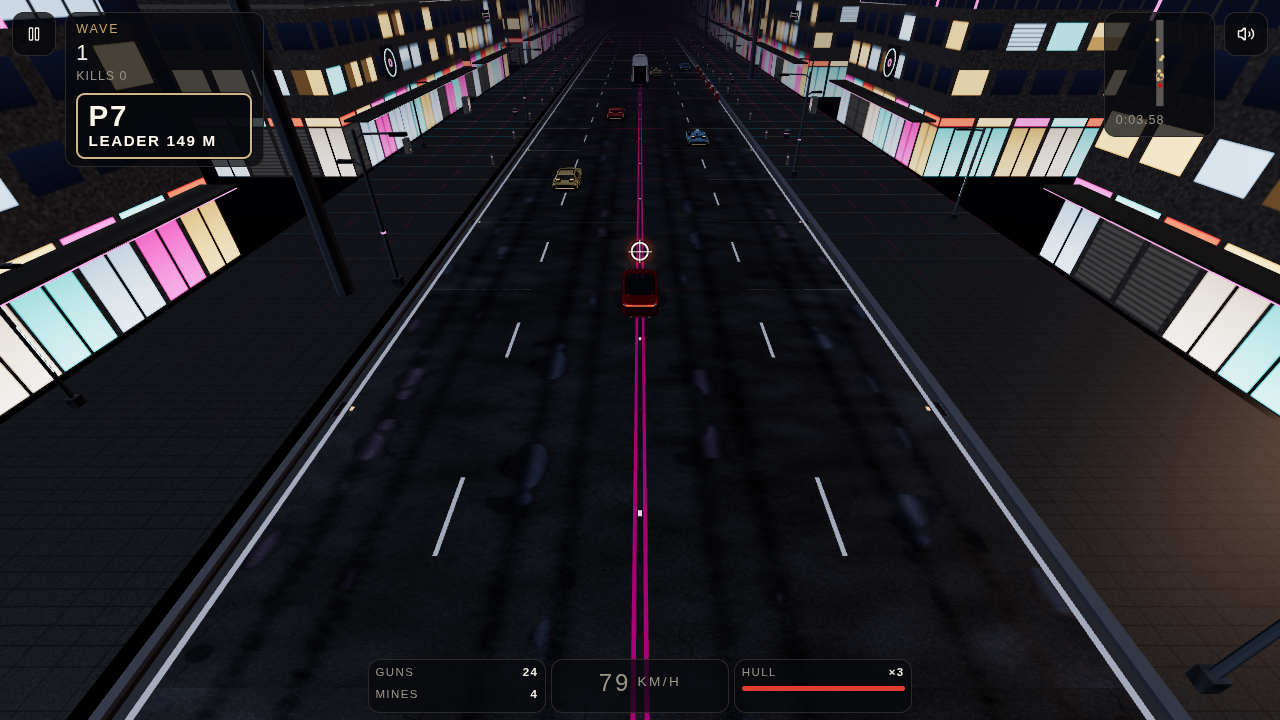
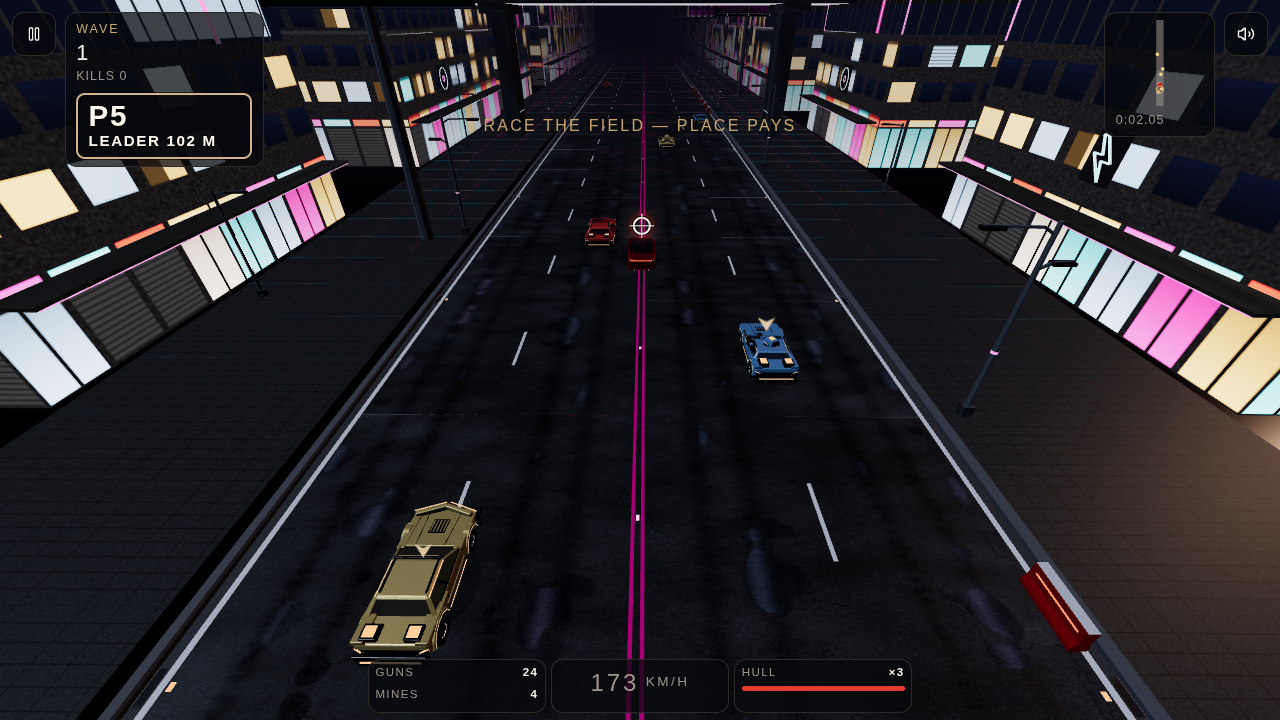
Fix Night City smoke: atlas, phone draws, HUD, finish and restart.
The packaged HTML loads the inlined road atlas, so the single-file
page keeps its asphalt. Phone play collapses enemy materials and
hides distant city dressing, and the race readout fits a 390-wide
screen. Restart clears the run and the HUD. Smoke now covers a
Night City finish and a Classic Night wreck.

diff --git a/src/game/world.ts b/src/game/world.ts
@@ -560,6 +560,119 @@ export function mergeStatic(root: THREE.Object3D) {
   }
 }
 
+/** Phone enemy LOD: one mesh per wheel material, parented on the root. The wheel_* pivots stay so the rig still finds four wheels. */
+function foldWheels(root: THREE.Object3D) {
+  root.updateMatrixWorld(true);
+  const inv = new THREE.Matrix4().copy(root.matrixWorld).invert();
+  const groups = new Map<THREE.Material, THREE.BufferGeometry[]>();
+  const victims: THREE.Mesh[] = [];
+  const underWheel = (o: THREE.Object3D) => {
+    for (let p: THREE.Object3D | null = o.parent; p && p !== root; p = p.parent) if (/^wheel_/.test(p.name)) return true;
+    return false;
+  };
+  root.traverse((o) => {
+    const m = o as THREE.Mesh;
+    if (!m.isMesh || (m as unknown as THREE.SkinnedMesh).isSkinnedMesh || !underWheel(m) || Array.isArray(m.material)) return;
+    const g0 = m.geometry.index ? m.geometry.toNonIndexed() : m.geometry.clone();
+    const g = new THREE.BufferGeometry();
+    const pos = g0.getAttribute("position");
+    const nrm = g0.getAttribute("normal");
+    if (!pos || !nrm) return;
+    g.setAttribute("position", pos);
+    g.setAttribute("normal", nrm);
+    if (g0.getAttribute("uv")) g.setAttribute("uv", g0.getAttribute("uv"));
+    g.applyMatrix4(new THREE.Matrix4().multiplyMatrices(inv, m.matrixWorld));
+    const list = groups.get(m.material as THREE.Material) ?? [];
+    list.push(g);
+    groups.set(m.material as THREE.Material, list);
+    victims.push(m);
+  });
+  for (const v of victims) v.parent?.remove(v);
+  for (const [mat, list] of groups) {
+    const merged = mergeGeometries(list, false);
+    if (!merged) continue;
+    const mesh = new THREE.Mesh(merged, mat);
+    mesh.name = "merged_wheel";
+    mesh.castShadow = false;
+    root.add(mesh);
+  }
+}
+
+function ancestorNamed(o: THREE.Object3D, root: THREE.Object3D, re: RegExp) {
+  for (let p: THREE.Object3D | null = o.parent; p && p !== root; p = p.parent) if (re.test(p.name)) return p;
+  return null;
+}
+
+/**
+ * Phone enemy LOD. The phone GLBs are already the low mesh, but each wheel is four
+ * materials and the body is five, so a full field is a draw each. Collapse trim into
+ * the body paint, wheels into one tire mesh, and each turret into one mesh. Glass stays.
+ * The hero car does not come through here.
+ */
+function phoneEnemyLod(root: THREE.Object3D) {
+  const named = new Map<string, THREE.Material>();
+  root.traverse((o) => {
+    const m = o as THREE.Mesh;
+    if (!m.isMesh || Array.isArray(m.material)) return;
+    const name = m.material.name;
+    if (name && !named.has(name)) named.set(name, m.material);
+  });
+  const body = named.get("body");
+  const tire = named.get("tire") ?? body;
+  if (body) {
+    root.traverse((o) => {
+      const m = o as THREE.Mesh;
+      if (!m.isMesh || Array.isArray(m.material)) return;
+      if (ancestorNamed(m, root, /rotor_/)) return;
+      if (ancestorNamed(m, root, /wheel_/)) {
+        if (tire) m.material = tire;
+        return;
+      }
+      const matName = m.material.name;
+      if (matName === "lamp" || matName === "trim" || matName === "rim" || matName === "taillight") m.material = body;
+    });
+  }
+  mergeStatic(root);
+  foldWheels(root);
+  const mounts: THREE.Object3D[] = [];
+  root.traverse((o) => {
+    if (/^turret_/.test(o.name)) mounts.push(o);
+  });
+  for (const mount of mounts) {
+    mount.updateMatrixWorld(true);
+    const inv = new THREE.Matrix4().copy(mount.matrixWorld).invert();
+    const groups = new Map<THREE.Material, THREE.BufferGeometry[]>();
+    const victims: THREE.Mesh[] = [];
+    mount.traverse((o) => {
+      const m = o as THREE.Mesh;
+      if (!m.isMesh || m === mount || Array.isArray(m.material)) return;
+      const g0 = m.geometry.index ? m.geometry.toNonIndexed() : m.geometry.clone();
+      const g = new THREE.BufferGeometry();
+      const pos = g0.getAttribute("position");
+      const nrm = g0.getAttribute("normal");
+      if (!pos || !nrm) return;
+      g.setAttribute("position", pos);
+      g.setAttribute("normal", nrm);
+      if (g0.getAttribute("uv")) g.setAttribute("uv", g0.getAttribute("uv"));
+      g.applyMatrix4(new THREE.Matrix4().multiplyMatrices(inv, m.matrixWorld));
+      const list = groups.get(m.material as THREE.Material) ?? [];
+      list.push(g);
+      groups.set(m.material as THREE.Material, list);
+      victims.push(m);
+    });
+    if (victims.length < 2) continue;
+    for (const v of victims) v.parent?.remove(v);
+    for (const [mat, list] of groups) {
+      const merged = mergeGeometries(list, false);
+      if (!merged) continue;
+      const mesh = new THREE.Mesh(merged, mat);
+      mesh.name = "merged_turret";
+      mesh.castShadow = false;
+      mount.add(mesh);
+    }
+  }
+}
+
 /**
  * Swap the hero view's procedural hull for the GLB. Every attachment is found by node name
  * (wheel_*, thruster_*, lamp_*, taillight, turret_mount, driver_seat), so a re-export with the
@@ -910,7 +1023,8 @@ export function createWorld(canvas: HTMLCanvasElement): World {
   const POOL = BEHIND + AHEAD + 1;
   const BLD_PER = 4;
   const roadMat = new THREE.MeshStandardMaterial({ color: 0xffffff, roughness: 1, metalness: 0 });
-  const roadMap = new THREE.TextureLoader().load(`${import.meta.env.BASE_URL}assets/v02/kit/road_kit_atlas.png`);
+  // Single-file HTML inlines the atlas on window.__NF_GLB. A path fetch from file:// is a CORS error and the road stays untextured.
+  const roadMap = new THREE.TextureLoader().load(inlineGlb("road_kit_atlas.png") ?? `${import.meta.env.BASE_URL}assets/v02/kit/road_kit_atlas.png`);
   roadMap.colorSpace = THREE.SRGBColorSpace;
   roadMap.flipY = false;
   roadMap.wrapS = THREE.ClampToEdgeWrapping;
@@ -975,7 +1089,7 @@ export function createWorld(canvas: HTMLCanvasElement): World {
     if (stage !== "city" || ch.index < 0 || ch.built || !cityReady()) return;
     const i0 = ch.index * SEG;
     const o = sampleAt(sim.track, i0);
-        ch.lamp = buildCityChunk(ch.city, ch.index, (k) => sampleAt(sim.track, i0 + k), SEG, sim.track.width / 2, o.x, o.z, (n) => hash(n), sim.track.courseId === "city");
+        ch.lamp = buildCityChunk(ch.city, ch.index, (k) => sampleAt(sim.track, i0 + k), SEG, sim.track.width / 2, o.x, o.z, (n) => hash(n), sim.track.courseId === "city", coarse);
     ch.city.position.set(o.x, 0, o.z);
     ch.built = true;
   }
@@ -1097,6 +1211,9 @@ export function createWorld(canvas: HTMLCanvasElement): World {
     const c = Math.floor(along / CHUNK);
     const lo = Math.max(0, c - BEHIND);
     const hi = c + AHEAD;
+    // Phone keeps the road stream and drops city dressing outside a short window. Desktop still builds every streamed chunk.
+    const cityLo = coarse ? Math.max(0, c - 1) : lo;
+    const cityHi = coarse ? c + 3 : hi;
     const have = new Set<number>();
     for (const ch of chunks) {
       if (ch.index >= lo && ch.index <= hi) have.add(ch.index);
@@ -1111,6 +1228,7 @@ export function createWorld(canvas: HTMLCanvasElement): World {
     let cityBudget = 1;
     for (const ch of chunks) {
       if (ch.index !== -1) {
+        if (stage === "city" && (ch.index < cityLo || ch.index > cityHi)) continue;
         if (!cityBudget && stage === "city" && !ch.built) continue;
         if (!cityBudget) continue;
         if (stage === "city" && !ch.built && cityReady()) cityBudget = 0;
@@ -1125,7 +1243,7 @@ export function createWorld(canvas: HTMLCanvasElement): World {
       const now = performance.now() / 1000;
       for (const ch of chunks) {
         if (ch.index < 0) continue;
-        ch.city.visible = true;
+        ch.city.visible = ch.index >= cityLo && ch.index <= cityHi;
         if (!ch.lamp) continue;
         const col = gateColor(now + ch.index);
         ch.lamp.parent?.children.forEach((l) => ((l as THREE.Mesh).material as THREE.MeshBasicMaterial).color.setHex(col));
@@ -1240,7 +1358,8 @@ export function createWorld(canvas: HTMLCanvasElement): World {
       new GLTFLoader().load(
         enemyUrl(kind, enemyLod),
         (g) => {
-          mergeStatic(g.scene);
+          if (coarse) phoneEnemyLod(g.scene);
+          else mergeStatic(g.scene);
           enemyModels[kind] = g.scene;
           enemyInfo[kind] = "glb";
         },

diff --git a/src/game/city.ts b/src/game/city.ts
@@ -183,7 +183,7 @@ export function cityChunkRules(index: number, authored: boolean) {
 }
 
 /** one chunk of city: all pieces baked into one merged mesh per material (+ separate gate lamps) */
-export function buildCityChunk(group: THREE.Group, index: number, at: (k: number) => Pose, seg: number, half: number, ox: number, oz: number, rnd: (n: number) => number, authored = false) {
+export function buildCityChunk(group: THREE.Group, index: number, at: (k: number) => Pose, seg: number, half: number, ox: number, oz: number, rnd: (n: number) => number, authored = false, foldProps = false) {
   for (const c of [...group.children]) {
     group.remove(c);
     c.traverse((o) => {
@@ -195,6 +195,7 @@ export function buildCityChunk(group: THREE.Group, index: number, at: (k: number
   }
   if (!cityReady()) return null;
   const parts = new Map<THREE.Material, THREE.BufferGeometry[]>();
+  let skipRoof = false;
   const add = (name: string, p: Pose, lx: number, ly: number, lz: number, ry: number) => {
     const src = lib[name];
     if (!src) return;
@@ -209,6 +210,11 @@ export function buildCityChunk(group: THREE.Group, index: number, at: (k: number
     src.traverse((o) => {
       const m = o as THREE.Mesh;
       if (!m.isMesh || o.name === "status_lamp") return;
+      if (skipRoof) {
+        let roof = false;
+        for (let n: THREE.Object3D | null = o; n; n = n.parent) if (n.name === "tunnel_roof") roof = true;
+        if (roof) return;
+      }
       const g0 = m.geometry.index ? m.geometry.toNonIndexed() : m.geometry.clone();
       const g = new THREE.BufferGeometry();
       for (const a of ["position", "normal", "uv"]) if (g0.getAttribute(a)) g.setAttribute(a, g0.getAttribute(a));
@@ -342,6 +348,13 @@ export function buildCityChunk(group: THREE.Group, index: number, at: (k: number
       if (piece.id === "tunnel_40" || piece.id === "tunnel_portal") {
         const src = lib[piece.id];
         if (!src) continue;
+        // Phone: bake the shell into the chunk materials. The chase cam stays above the roof, so the roof mesh is omitted.
+        if (foldProps) {
+          skipRoof = true;
+          add(piece.id, p, 0, 0, 0, 0);
+          skipRoof = false;
+          continue;
+        }
         const clone = src.clone(true);
         concealTunnelRoof(clone, 13.5);
         const q = new THREE.Group();

diff --git a/src/styles.css b/src/styles.css
@@ -995,6 +995,21 @@
 @media (max-width: 420px) {
   .nf-hud .nf-bottom { flex-wrap: wrap; }
   .nf-hud .nf-bottom .nf-meter { flex: 1 1 40%; }
+  /* Race place/gap/warn sits inside the left readout. On a 390-wide phone the 11rem card
+     pushed that readout into the minimap and the mute button. Let it shrink instead. */
+  .nf-top { gap: 0.35rem; }
+  .nf-readout { min-width: 0; flex: 1 1 auto; overflow: hidden; }
+  .nf-map-wrap { flex: 0 0 auto; }
+  .nf-race {
+    min-width: 0;
+    max-width: 100%;
+    margin-top: 0.22rem;
+    padding: 0.22rem 0.38rem 0.26rem;
+  }
+  .nf-race-place { font-size: 1.15rem; }
+  .nf-race-gap,
+  .nf-race-warn { font-size: 0.68rem; letter-spacing: 0.06em; }
+  .nf-hud .nf-toast { top: calc(8.4rem + env(safe-area-inset-top)); }
 }
 
 /* Desktop meters sit on the bottom edge. Lift them so upgrade chips stay in the viewport. */

diff --git a/src/game/RoadsterGame.tsx b/src/game/RoadsterGame.tsx
@@ -638,6 +638,7 @@ export function RoadsterGame() {
     setConfirmMenu(false);
     if (!sim) return;
     sim.keys.clear();
+    sim.keysOverride = null;
     sim.mouseFire = false;
     sim.mouseMine = false;
   }
